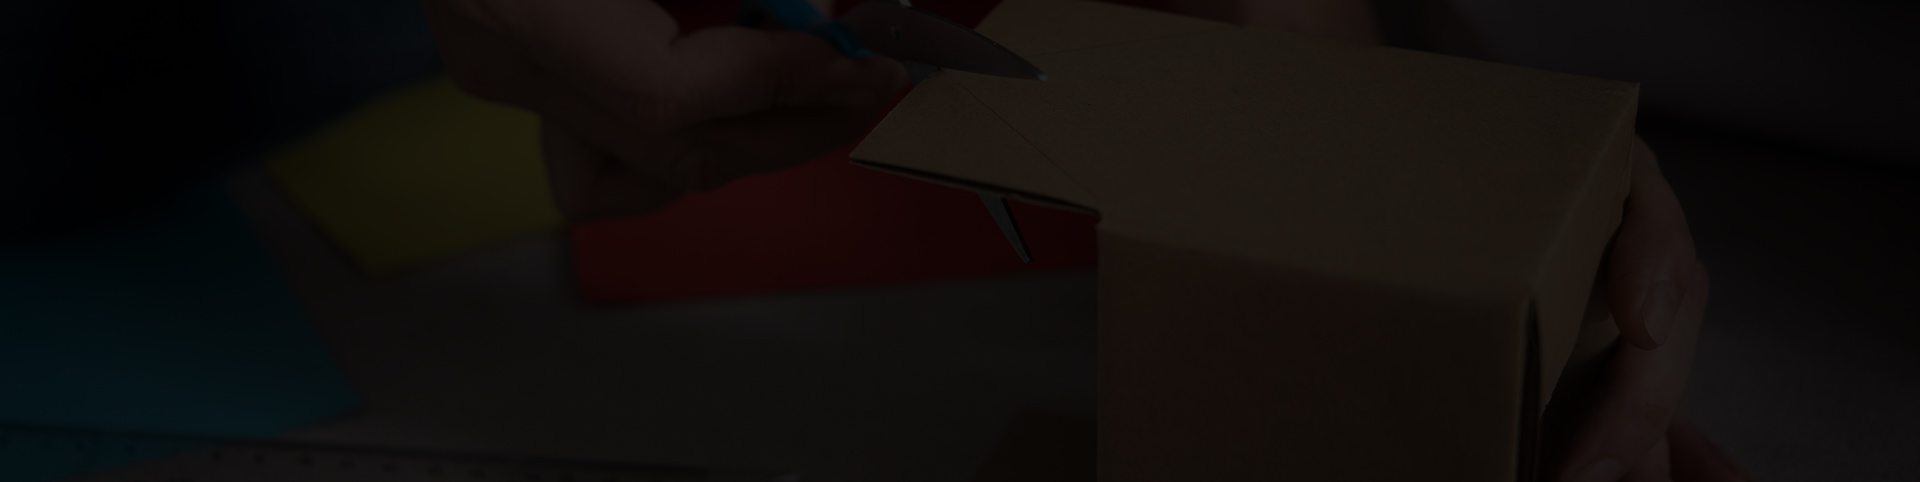
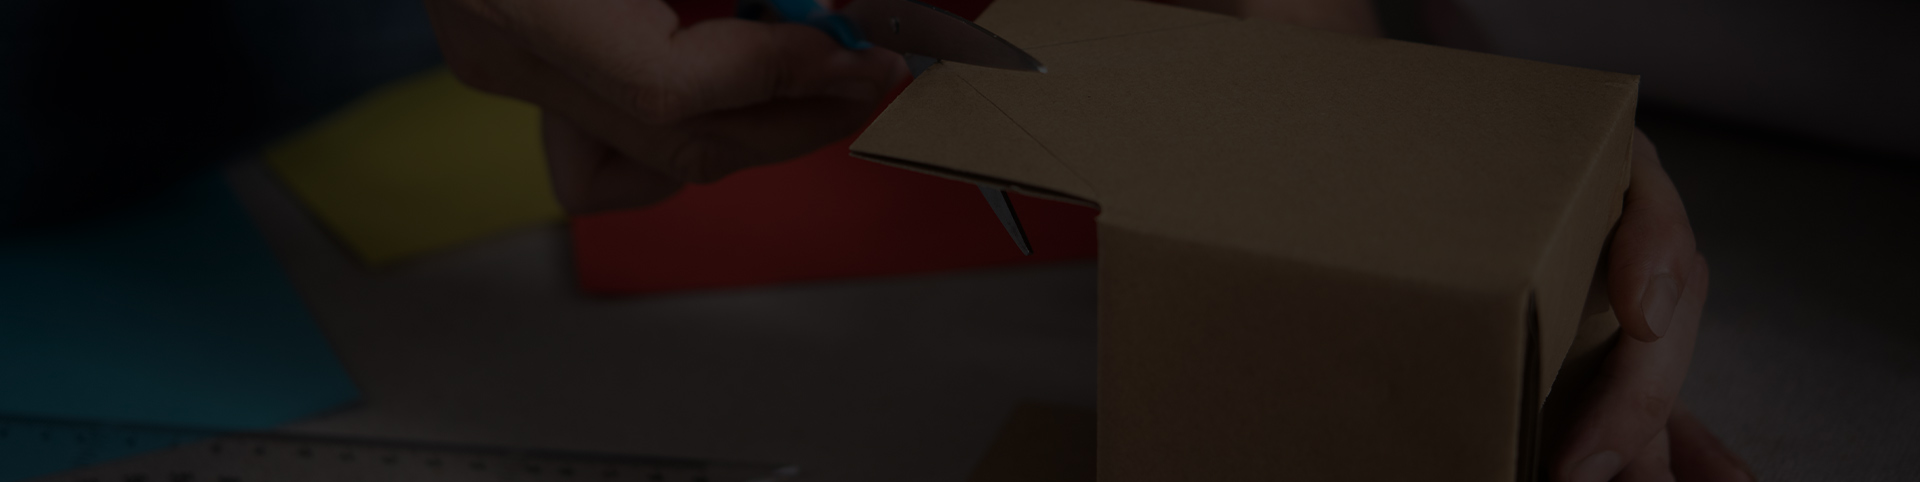
Nuevos ajustes a las imagenes de las paginas internas de la pagina

diff --git a/nosotros.html b/nosotros.html
@@ -193,6 +193,7 @@
     <div class="page-header flex-middle">
         <div class="container">
             <div class="inner flex-middle">
+                <img src="images/bg/bg-black-banner-acerca-nosotros-orange-world.webp" alt="Acerca de Nosotros Orange World">
                 <h1 class="page-title">Nosotros</h1>
                 <ul id="breadcrumbs" class="breadcrumbs none-style">
                     <li><a href="index.html">Inicio</a></li>

diff --git a/blog.html b/blog.html
@@ -190,6 +190,7 @@
     <div class="page-header flex-middle">
         <div class="container">
             <div class="inner flex-middle">
+                <img src="images/bg/bg-blog-grid-orange-world.jpg" alt="Blog Page Orange World">
                 <h1 class="page-title">Blog</h1>
                 <ul id="breadcrumbs" class="breadcrumbs none-style">
                     <li><a href="index.html">Inicio</a></li>
